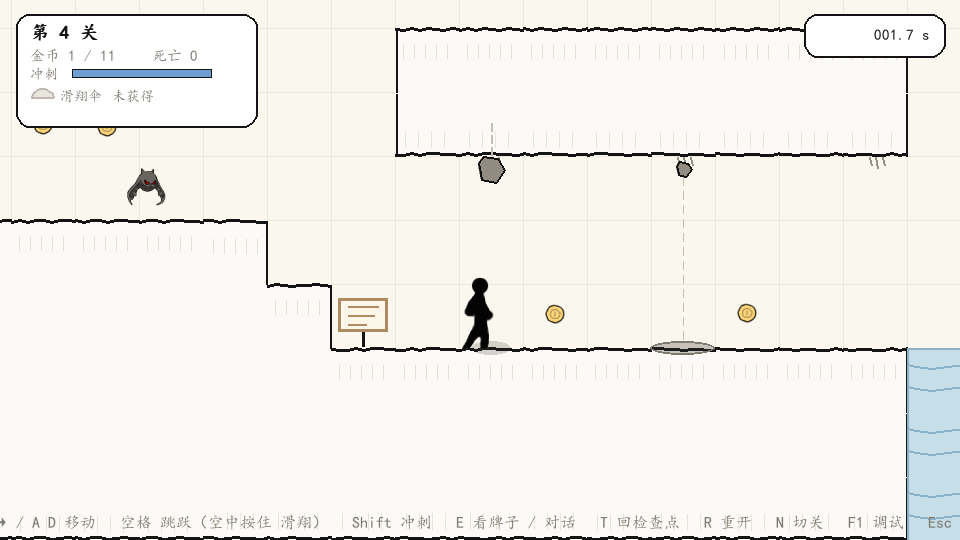
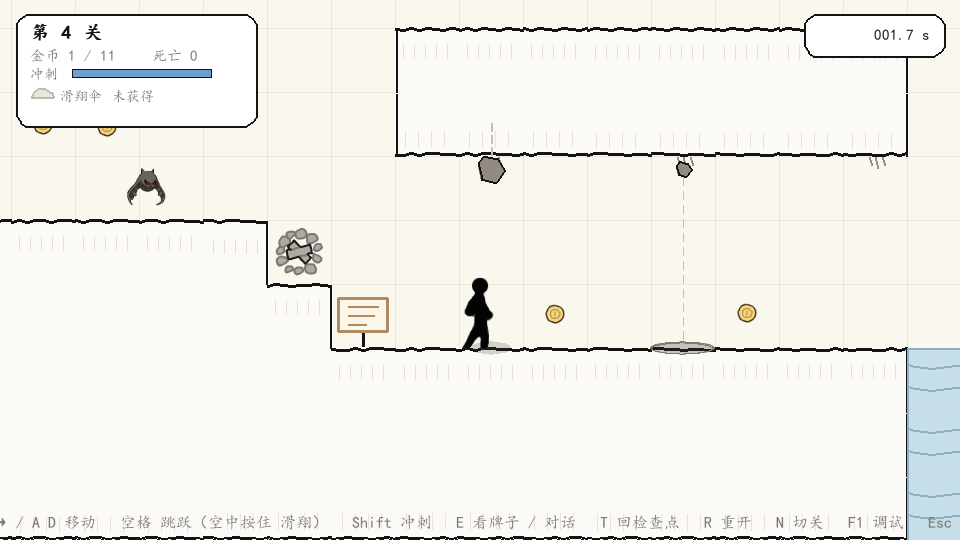
fix(M9.1): 第 3 关终点后的金币 + 第 4 关篝火挪到落石区入口 + 全关卡金币体检
试玩反馈三条，第 2 关复查后不改地图（金币都吃得到，只是不在必经路径上）。

1) 第 3 关少一枚金币（真 bug）：终点段第二枚画在旗子右边（第 52 列），
   踩进终点判定区就结算定格，那枚永远吃不到；挪到第 48 列。
   gen_l3 增加硬检查"金币不许落在终点旗右边（含同列）"。

2) 同类问题提升为全关卡体检 test_level_audit（6 关 × 4 项）：
   金币越过终点 / 埋在实心里 / 压在危险格上 / 篝火悬空或泡水。
   这种"画错地方"只看地图看不出来，必须拿世界坐标和判定区比。

3) 第 4 关篝火 46 列 → 34 列（下台阶第一格，落石区入口）：
   原来被石头砸死要回关卡起点重跑二十多秒，惩罚远大于难度本身。
   存档点准则是"难点入口"，不是"难点出口"，README 同步改口径。

4) 通关时终端多打一行 `漏拿 : 第 N 列、…`（按列排序）：
   只有 10/12 分不出"没跳够"还是"画在拿不到的地方"，列号一眼定位。

5) 新增 tools/probe_coins.py：金币可达性探针。把角色放到金币附近每个可站立面，
   试"朝金币跑 / 朝金币跳 / 原地满跳"，用真实 Player.update 跑 120 帧，
   按"能相交"判定可否拿取。第 2 关 12 枚逐枚验过，全部可达。

自检 415 → 439 项双环境全绿；体检 20 项全绿；6 关金币探针全部可达。

diff --git a/tools/probe_coins.py b/tools/probe_coins.py
@@ -1,0 +1,171 @@
+# -*- coding: utf-8 -*-
+"""金币可达性探针。
+
+为什么需要它：地图里的金币是不是"跳一跳就能吃到"，靠肉眼估高度很容易
+翻车——跳高是 127px，而一格是 64px，差半格就是"永远差一点"。玩家反馈
+"有金币拿不到"时，必须能用物理仿真给出确定的 yes/no，而不是再目测一遍。
+
+做法（只关心"能不能碰到"，不关心"怎么跑过去"）：
+  1. 枚举每枚金币附近所有可以站立的表面（地形顶面 + 移动平台的最高/最低位）；
+  2. 把角色放到该表面上，试若干种输入脚本（朝金币跑 / 朝金币跳 / 原地跳）；
+  3. 用真实的 Player.update 跑 120 帧，只要有一帧角色碰撞盒与金币相交，
+     这枚金币就判"可从该表面拿到"。
+
+结论分三档：
+  OK     至少一个表面能拿到（并打印是哪种动作）
+  BLOCK  金币本身埋在实心里（画都画在墙里，永远拿不到）
+  FAIL   附近任何表面都碰不到——这就是玩家反馈的那种金币
+
+用法：
+    python tools/probe_coins.py            # 全部关卡
+    python tools/probe_coins.py l2 l3      # 指定关卡
+    python tools/probe_coins.py l2 -v      # 打印每一次尝试
+"""
+
+import os
+import sys
+
+HERE = os.path.dirname(os.path.abspath(__file__))
+ROOT = os.path.dirname(HERE)
+if ROOT not in sys.path:
+    sys.path.insert(0, ROOT)
+
+os.environ.setdefault("SDL_VIDEODRIVER", "dummy")
+
+import pygame
+
+import compat
+import config
+import levels_catalog
+import player as player_mod
+import world as world_mod
+
+FRAMES = 120          # 单次尝试的时长（2 秒足够跳一次再落地）
+LOOK_X = 420          # 只考虑金币左右这么远以内的落脚面
+LOOK_Y = 420          # 只考虑金币下方这么深以内的落脚面
+
+
+def _surfaces(w):
+    """所有可站立的水平面：[(left, right, top, 标签)]。"""
+    out = []
+    for r in w.solids:
+        out.append((r.left, r.right, r.top, "地形"))
+    for p in w.platforms:
+        # 双向行程都要算：站在最低位和最高位都能起跳
+        lo, hi = p.rect.top, p.rect.top
+        if p.axis == "y":
+            lo, hi = p.rect.top - config.PLATFORM_TRAVEL, p.rect.top
+        for top in (lo, hi):
+            out.append((p.rect.left, p.rect.right, int(top), "平台"))
+    return out
+
+
+def _try(w, coin, sx, sy, axis, jump_at, verbose, tag):
+    """从 (sx, sy) 出发按脚本跑，碰到金币就返回 True。"""
+    p = player_mod.Player(sx, sy)
+    inp = player_mod.InputState()
+    box = coin["rect"]
+    for f in range(FRAMES):
+        inp.axis = axis
+        if f == jump_at:
+            inp.jump_pressed = True
+        inp.jump_held = (jump_at >= 0 and f >= jump_at)
+        if p.rect.colliderect(box):
+            if verbose:
+                print(u"      ✓ %s 第 %d 帧相交 (%.0f,%.0f) 轴=%+.0f 跳@%d"
+                      % (tag, f, p.x, p.y, axis, jump_at))
+            return True
+        p.update(config.FIXED_DT, inp, w.collision_solids(),
+                 oneways=w.oneways, bouncers=w.bouncers)
+    if verbose:
+        print(u"      ✗ %s 轴=%+.0f 跳@%d  末(%.0f,%.0f)"
+              % (tag, axis, jump_at, p.x, p.y))
+    return False
+
+
+def probe(path, verbose=False):
+    w = world_mod.World.load(path)
+    print(u"== %s  金币 %d 枚" % (os.path.basename(path), len(w.coins)))
+    surfaces = _surfaces(w)
+    fails = []
+    for i, coin in enumerate(w.coins):
+        box = coin["rect"]
+        cx, cy = box.centerx, box.centery
+        tag = u"#%02d (%d,%d) 格(%d,%d)" % (i, cx, cy, cx // config.TILE,
+                                            cy // config.TILE)
+        # 埋进实心
+        buried = None
+        for r in w.solids:
+            if r.colliderect(box):
+                buried = r
+                break
+        if buried is not None:
+            print(u"  %s  BLOCK 埋在实心里 %s" % (tag, buried))
+            fails.append((i, "BLOCK"))
+            continue
+
+        cands = []
+        for (l, r, top, kind) in surfaces:
+            if top < cy - 40 or top > cy + LOOK_Y:
+                continue
+            if r < cx - LOOK_X or l > cx + LOOK_X:
+                continue
+            cands.append((l, r, top, kind))
+        # 远的先试近的：按 |top 差| 排序，先试最自然的那块地
+        cands.sort(key=lambda c: abs(c[2] - (cy + 70)))
+
+        got = None
+        for (l, r, top, kind) in cands:
+            # 三个起始横坐标：正下方、左侧助跑位、右侧助跑位
+            for sx in (min(max(cx - 13, l + 8), r - 34),
+                       min(max(cx - 150, l + 8), r - 34),
+                       min(max(cx + 120, l + 8), r - 34)):
+                sy = top - player_mod.Player.HEIGHT
+                for axis in ((1.0 if cx >= sx else -1.0), 0.0):
+                    for jump_at in (1, 8, 14, 20):
+                        if _try(w, coin, sx, sy, axis, jump_at, verbose,
+                                u"%s@(%.0f,%.0f)" % (kind, sx, top)):
+                            got = (kind, sx, top, axis, jump_at)
+                            break
+                    if got:
+                        break
+                if got:
+                    break
+            if got:
+                break
+        if got:
+            print(u"  %s  OK    %s 站 (%.0f,%d) 轴%+.0f 跳@%d"
+                  % (tag, got[0], got[1], got[2], got[3], got[4]))
+        else:
+            print(u"  %s  FAIL  %d 个落脚面都碰不到" % (tag, len(cands)))
+            fails.append((i, "FAIL"))
+    return fails
+
+
+def main(argv):
+    pygame.display.init()
+    compat.make_display((64, 64))
+    verbose = "-v" in argv
+    keys = [a for a in argv[1:] if not a.startswith("-")]
+    if not keys:
+        keys = [lv["key"] for lv in [levels_catalog.at(i) for i in range(levels_catalog.count())]]
+    bad = {}
+    for k in keys:
+        p = levels_catalog.path_of(k)
+        if not p or not os.path.exists(p):
+            print(u"!! 缺少关卡 %s" % k)
+            continue
+        f = probe(p, verbose)
+        if f:
+            bad[k] = f
+    print(u"\n== 汇总")
+    if not bad:
+        print(u"  全部金币可达")
+        return 0
+    for k, f in bad.items():
+        print(u"  %s：%s" % (k, u"、".join(u"#%02d %s" % (i, why) for i, why in f)))
+    return 1
+
+
+if __name__ == "__main__":
+    sys.exit(main(sys.argv))

diff --git a/selftest.py b/selftest.py
@@ -983,6 +983,50 @@ def test_land_feel():
     _check(u"下沉自动回弹", p.land_sink < 0.01, u"%.3f px" % p.land_sink)
 
 
+# ---------------------------------------------------------------- 关卡数据体检
+
+def test_level_audit():
+    """全关卡"能不能吃到 / 站得住"的体检。
+
+    这类问题**是数据错，不是操作差**，而肉眼看地图看不出来：
+      - 金币画在终点旗右边：一脚踩进终点判定区就结算定格，永远吃不到
+        （试玩两次都报"这关有金币拿不到"，就是这一条）；
+      - 金币埋在实心里：画都画在墙里；
+      - 篝火底下是空的或者泡在水里：重生直接在死亡格上。
+    全都用世界坐标和判定区比一遍，比再看十遍地图靠谱。
+    """
+    _section(u"全关卡结算体检（金币 / 篝火）")
+    for i in range(levels_catalog.count()):
+        lv = levels_catalog.at(i)
+        path = levels_catalog.path_of(lv["key"])
+        w = world.World.load(path)
+        name = lv["name"]
+
+        past = [c for c in w.coins if c["rect"].right > w.goal_zone.left]
+        _check(u"%s 没有金币落在终点之后" % name, not past,
+               u"%d/%d 枚越过终点（x>%d）"
+               % (len(past), len(w.coins), w.goal_zone.left))
+
+        buried = [c for c in w.coins
+                  if any(r.colliderect(c["rect"]) for r in w.solids)]
+        _check(u"%s 没有金币埋在实心里" % name, not buried,
+               u"%d 枚" % len(buried))
+
+        in_hazard = [c for c in w.coins if w.hazard_at(c["rect"]) is not None]
+        _check(u"%s 没有金币压在危险格上" % name, not in_hazard,
+               u"%d 枚" % len(in_hazard))
+
+        bad = []
+        for cp in w.checkpoints:
+            r = cp["rect"]
+            if not w.is_solid_px(r.centerx, r.bottom + 2):
+                bad.append(u"悬空")
+            elif w.hazard_at(r) is not None:
+                bad.append(u"泡在危险格里")
+        _check(u"%s 篝火重生点都站在实地上" % name, not bad,
+               u"、".join(bad) or u"%d 个全好" % len(w.checkpoints))
+
+
 # ---------------------------------------------------------------- M3 地图与相机
 
 def _temp_level(name, text):
@@ -3078,6 +3122,7 @@ def _run_all(app):
     test_m9_goal(app)
     test_level_parse()
     test_level_errors()
+    test_level_audit()
     test_camera()
     test_level_playable()
 

diff --git a/tools/gen_l3.py b/tools/gen_l3.py
@@ -85,8 +85,12 @@ def build():
     # ---- 金币 ----
     # 前四枚在台阶上，自然引导玩家往上走；19,4 是跳起来才够得到的
     # （站着的头顶在 314，金帀中心 288，不跳吃不到）
+    #
+    # 最后一枚**不能放在终点旗右边**：一脚踩进终点判定区，关卡就结算定格了，
+    # 旗子后面的金币永远拿不到（试玩实测：跑到终点只拿到 8/9）。
+    # 所以终点段的两枚都压在旗子左边，靠小水坑当节奏点。
     for c, r in [(8, 9), (10, 9), (13, 8), (15, 7), (19, 4),
-                 (32, 9), (36, 9), (47, 9), (52, 9)]:
+                 (32, 9), (36, 9), (47, 9), (48, 9)]:
         put(rows, c, r, "c")
 
     return rows
@@ -134,6 +138,18 @@ def check(rows):
         for c in range(W):
             if rows[r][c] == "c" and rows[r][c] == "#":
                 problems.append(u"(%d,%d) 的金币在实心里" % (c, r))
+
+    # 5) 金币不能落在终点旗的右边（含同一列）
+    #    终点判定区一到就结算定格，旗子后面的金币是永远拿不到的：
+    #    玩家会以为自己操作不够，其实是关卡画错了。
+    flag_cols = [c for r in range(H) for c in range(W) if rows[r][c] == "F"]
+    if flag_cols:
+        goal_x = min(flag_cols) * config.TILE
+        for r in range(H):
+            for c in range(W):
+                if rows[r][c] == "c" and c * config.TILE >= goal_x:
+                    problems.append(u"(%d,%d) 的金币在终点（第 %d 列）右边或同一列"
+                                    % (c, r, min(flag_cols)))
 
     return problems
 

diff --git a/scenes.py b/scenes.py
@@ -1160,6 +1160,15 @@ class GameScene(Scene):
             print(u" 到达终点：%.1fs，金币 %d/%d，死亡 %d 次" % (
                 self.level_time, self.world.taken_coins,
                 self.world.total_coins, self.deaths))
+            # 漏拿的金币是哪几枚，必须打出来。试玩反馈"这关有金币拿不到"
+            # 时，光看总数 10/12 没法判断是"没跳够"还是"画在拿不到的地方"——
+            # 把列号列出来，一眼就能定位（列号从 1 开始，和死因那份一致）。
+            missed = [c for c in self.world.coins if not c["taken"]]
+            if missed:
+                missed.sort(key=lambda c: c["rect"].centerx)
+                print(u" 漏拿     : %s（共 %d 枚）" % (
+                    u"、".join(u"第 %d 列" % (c["rect"].centerx // config.TILE + 1)
+                              for c in missed), len(missed)))
             self._print_death_summary()
             self._record_result()
 

diff --git a/tools/gen_l2.py b/tools/gen_l2.py
@@ -76,6 +76,13 @@ def build():
     put(rows, 45, 9, "m")
 
     # ---- 金币 ----
+    # 高度分三档：
+    #   row 9（贴地）、row 8（离地 96px）：跑着跳就吃得到，顺路；
+    #   row 7（离地 160px）：要"人正好在金币正下方、原地满跳"才碰得到，
+    #                        属于**支线**奖励（实测可吃，但别指望跑动中顺带捞）；
+    #   row 6（高台顶上）：靠弹跳板 / 升降台上高台才吃得到。
+    # 也就是说这关的金币不全是必经路径上的——12 枚里有一半要特意去拿，
+    # 这是有意的收集目标，不是"画在拿不到的地方"。
     for c, r in [(3, 8), (5, 8), (10, 8), (12, 7), (22, 7),
                  (26, 6), (28, 6), (38, 9), (40, 9),
                  (47, 6), (48, 6), (49, 6)]:

diff --git a/tools/gen_l4.py b/tools/gen_l4.py
@@ -89,7 +89,11 @@ def build():
 
     # ---- 出生点 / 终点 / 篝火 ----
     put(rows, 2, GROUND - 1, "P")
-    put(rows, 46, GROUND - 1, "C")
+    # 篝火放在**落石区之前**（第 34 列，下台阶的第一格），不是原来的第 46 列：
+    # 落石是这关唯一"看一眼就得停"的机关，被砸死却要回到关卡起点重跑，
+    # 惩罚太重、也太远——玩家会以为这关的难点是"跑得不够快"。
+    # 放在开裂天花板入口前，试错的代价才是"再来一次这段"。
+    put(rows, 34, 9, "C")
     put(rows, 56, GROUND - 1, "F")
 
     # ---- 告示牌与 NPC ----

diff --git a/README.md b/README.md
@@ -443,6 +443,8 @@
 ├── docs/              示意图与开发记录
 ├── docs/环境适配说明.md  环境坑与预防方案（改动前必读）
 ├── tools/envcheck.py  环境体检脚本（每个里程碑前跑一次）
+├── tools/gen_l*.py    各关生成器（改关卡改这里，别手改 txt）
+├── tools/probe_coins.py 金币可达性探针（真实物理仿真，判断"这枚吃不吃得到"）
 ├── README.md          项目主文档（放在根目录）
 └── 素材清单.md        素材路径与用途（放在根目录）
 ```
@@ -598,7 +600,7 @@ IDLE ──按方向──→ RUN ──离地──→ JUMP ──vy>0──→
 |---|---|---|---|
 | 1 | 角色动作流畅、风格统一 | 8 帧跑动 12FPS、状态机切换；全套 Kenney 涂鸦 + 黑剪影 | 跑动无跳帧、无滑步；画面上不出现第二种画风 |
 | 2 | 引导到位 | 教学关气泡；显性机关关告示牌 + NPC 多页对话 | 不看文档也能完成教学关；显性机关关每个新机关前都能读到说明 |
-| 3 | 合理使用存档点 | 每关按长度配置适量篝火，按 `E` 点亮，位置在难点之后 | 重玩一次不用重复走 30 秒以上 |
+| 3 | 合理使用存档点 | 每关按长度配置适量篝火，按 `E` 点亮，放在**难点入口**（不是出口） | 死了只重来这一段，不用从关卡起点重跑 30 秒 |
 | 4 | 特殊道具 | 滑翔伞（滑翔）、冲刺（突进）、弹跳板 | 拿到伞后有"原本到不了"的新路线 |
 | 5 | UI 与功能 | 重开本关 / 返回存档点 / 连续挑战 / 死亡回点 / 死亡计数 | 五个功能都能在暂停菜单里一步点到 |
 | 6 | 非显性机关 IWANNA | 伪装砖、落刺、隐形地刺、突墙、二段落石 | 每处都能"看线索预判"，也能"背板"稳定过 |
@@ -1124,7 +1126,14 @@ fallback），只能靠肉眼看出来 "金币怎么是个空心圈"。
 跳跃 121px 刚好够）→ 4 格高的起跳台 → **8 格宽水坑（512px）**：普通跳跃射程约
 263px，必死；滑翔从 384 落到 640 有 2.1 秒，按 330px/s 能飞 700px，够过 →
 对岸篝火 → 2 格小坑（正常跳就能过，和小坑形成对照）→ 终点。
-关卡由 `tools/gen_l3.py` 生成，自带三条硬约束检查（坑宽/台阶高差/道具不埋在实心里）。
+关卡由 `tools/gen_l3.py` 生成，自带四条硬约束检查（坑宽/台阶高差/道具不埋在实心里/
+**金币不许落在终点旗右边**）。
+
+> 最后一条是试玩踩出来的：终点段原来有一枚金币放在旗子**后面**，而一脚踩进终点
+> 判定区就结算定格——那枚金币永远拿不到，玩家会以为是"自己跳得不够高"。
+> 现在终点段两枚金币都压在旗子左边。同类检查已经提升为全关卡体检（见 §自检
+> `test_level_audit`），6 关一起查"金币越过终点 / 埋在实心里 / 压在危险格上 /
+> 篝火悬空或泡水"。
 
 ### M6：蝙蝠、UFO、落石、告示牌与 NPC —— 已完成
 
@@ -1150,9 +1159,14 @@ fallback），只能靠肉眼看出来 "金币怎么是个空心圈"。
 
 **第 4 关（`levels/l4.txt`，60x14 格）**：起步牌子（教 `E`）→ 2 格水坑 →
 老人 NPC（讲蝙蝠与落石的看法）→ 两级台阶上高台 → 头顶蝙蝠走廊 →
-高台上的 2 格坑 → 贴地蝙蝠（必须跳过去）→ 开裂天花板下 3 处落石 →
-2 格坑 → 篝火 → 悬停 UFO → 终点。由 `tools/gen_l4.py` 生成，七条硬检查
+高台上的 2 格坑 → 贴地蝙蝠（必须跳过去）→ **篝火（落石区入口）** →
+开裂天花板下 3 处落石 → 2 格坑 → 悬停 UFO → 终点。由 `tools/gen_l4.py` 生成，七条硬检查
 （坑宽 / 台阶高差 / 蝙蝠不撞墙 / 牌子站位 / 落石点上下结构 / 出生终点落地 / 文本配对）。
+
+> 篝火原来放在落石区**之后**（第 46 列）。试玩反馈很直接：被石头砸死要回到关卡
+> 起点重跑二十多秒，惩罚远大于这一段的难度，玩家的结论会是"这关靠跑得快"。
+> 改到落石区**入口**（第 34 列，下台阶的第一格）之后，死亡只重来这一段。
+> 存档点的位置准则是"难点入口"，不是"难点出口"——见 §「需求对照」第 3 条。
 
 验收（均已进自检）：
 - 敌人移动范围可预测且不会跑出关卡边界 —— 600 帧内 `x` 严格落在巡逻区间，且两端都到过。
@@ -1556,3 +1570,4 @@ Thumbs.db
 | 2026-11-25 | **M8 完成（隐形机关与伪装砖）**：`enemy.py` 新增四个机关——`CrumbleBrick`（踩上 0.30s 塌、3s 自己长回、画成四面描边的薄板且下面是坑）、`DropSpike`（收在天花板里只露 1px 黑线，走近抖 0.45s 后扎下来，只判刺头 28×40）、`RisingWall`（140px 高，比跳高 127px 高出一截所以跳不过去；升 0.12/停 0.75/缩 0.22；站稳在槽上或升起时被挤到就整程放弃，绝不夹人）、`TwinRock`（两块落石同一帧预订，预警 0.90/1.45 秒，远的那块影子先收拢）；`world` 新增 `!` `T` 两种格子与 `collision_solids()` 并入"没塌的砖 + 升起的墙"、`reset_traps()`（在 `_respawn` 与 `go_to_checkpoint` 里调用，否则砖塌了重生后卡死在坑边）、`mechanism_hit()` 接落刺、`_spawn_rock()` 支持 `twin` 与自定义预警时长；新增第 6 关 `levels/l6.txt`（72×14，3 篝火）与 `tools/gen_l6.py`（矩形/图例/出生终点/砖段与下方致死物/落刺安装点与通过性/突墙净空与跳高/二连石天花板与安全位/篝火重生点/金币可达性），`main.py --smoke-m8` 四张图（`docs/m8_brick|spike|wall|twin.png`）。自检 286 → 340 项双环境全绿；只做"往右跑 + 遇墙就停"的自动驾驶 14.4 秒 0 死亡通关，金币 17/18 |
 | 2026-11-25 | **M8.1 试玩修正（玩家实测两条）**。① **刺廊死区**：落刺原来"走远了才重新上膛"（`d > 触发距离 + 一格` = 166px），而两座刺相隔 3 格只有 192px——玩家跑到第 2 座的触发圈边缘时离第 1 座才 58px，永远等不到"够远"，回头走过第 1 座时那把刺成了摆设。改成**边沿触发**（只有"从圈外走进来"那一下放刺，`inside` 每帧更新，`cooldown` 兜住收回后立刻再放），来回穿行每次都重新放刺，站着不动也不会被连砸。② **突墙加刺**：原来撞上去只是被挡住，没有代价，这段路退化成"顶着右键等它落下"。现在朝玩家那一面长了一排 10px 锯齿，撞上就是死（`RisingWall.hitbox()` 是贴墙 10px 的竖带）；刹车距离 16px、触发距离 128px，看见墙起来再停完全来得及。配套：生成器新增"墙左边三格必须是能刹住的实地（不许坑/危险格/伪装砖）"与"触发圈里不许放金币（那是催人撞刺）"两条硬检查，第 35 列那枚金币因此挪到第 33 列；告示牌文案改成"撞上去就是死，看见它起来就收脚"。③ 顺手加了**事件日志**：每次死亡在终端打一行"死在第几列、被什么弄死的"，通关时再按（列, 死因）汇总一行——`config.LOG_EVENTS`，自检里关掉。自检 340 → 347 项双环境全绿 |
 | 2026-11-26 | **M9 完成（界面 / 存档 / 连续挑战）**：新增 `levels_catalog.py`（关卡顺序与元信息的唯一权威表——不再 `os.listdir` 扫目录，"下一关"不会因为将来出现 `l10` 而指到第 2 关）与 `save.py`（`save.json`：每关的最快/最多金币/最少死亡、解锁进度、原子写入、坏档降级）。① **主菜单**随存档变化：新玩家是"开始游戏"，打了一半是"继续游戏 · 滑翔伞"，全通是"再玩一次"，并在标题下显示"已通关 N / 6"。② **关卡选择**：3×2 卡片，每张带序号、关名、一句话说明、成绩行（满金币前面加 ★）与锁/对勾；方向键按网格走，锁着的卡按 Enter 只提示"先通关「上一关」"；`F2` 一键全解锁（写进存档），`Delete` 两次清档。③ **暂停**：Esc 不再直接退菜单（那样检查点、金币、机关状态全丢），改成场景内的遮罩面板：继续 / 重开 / 选关 / 回菜单。暂停时 `world.update` 都不跑——否则荡锤还在摆，玩家会死在暂停菜单里。④ **结算面板**：显示新纪录（最快 / 金币 / 最少死亡分开记）、首次通关标记，`Enter` 直达下一关（连续挑战），最后一关回选关。⑤ **存档只读模式**：`--smoke*` 与 `--selftest` 一律不写盘，否则截图脚本传送到终点的那 0.3 秒假成绩会写成"已通关 1/6"。⑥ 篝火点亮补了 toast（之前只有终端日志，画面上除了变色没有任何反馈）。自检 347 → 415 项双环境全绿；体检 19 → 20 项（新增"关卡目录与磁盘文件一一对应"）；`--smoke-m9` 出四张界面图（`docs/m9_menu|select|pause|goal.png`）|
+| 2026-11-26 | **M9.1 试玩修正（金币拿不到 · 篝火位置）**。① **第 3 关少一枚金币**：终点段第二枚金币画在旗子**右边**（第 52 列），而踩进终点判定区就结算定格——那枚永远吃不到，玩家只会怀疑自己跳得不够。挪到第 48 列（旗子左边）。这条不只改地图：`tools/gen_l3.py` 加了一条硬检查"金币不许落在终点旗右边（含同列）"，并把同类检查提升为**全关卡体检** `test_level_audit`——6 关一起查"金币越过终点 / 埋在实心里 / 压在危险格上 / 篝火悬空或泡在水里"，一次把这类"画错地方"的问题锁死（自检 415 → 439 项）。② **第 2 关金币复查**：12 枚逐枚用真实物理仿真过一遍（新增 `tools/probe_coins.py`：把角色放到金币附近的每个落脚面上，试"朝金币跑 / 朝金币跳 / 原地满跳"三种脚本），结论是**全都吃得到**，只是有 5 枚（第 12/22 列的两枚 + 起步三枚）不在必经路径上、要特意跳——属于收集目标而非 bug，因此地图不动，只在生成器里把"哪一档高度对应哪种难度"写清楚。③ **第 4 关篝火挪到落石区入口**（第 46 列 → 第 34 列）：原来被石头砸死要回关卡起点重跑二十多秒，惩罚远大于这一段本身的难度；现在死在落石区只重来这几格。存档点的准则是"难点入口"而不是"难点出口"。④ 通关时终端多打一行 **`漏拿 : 第 N 列、…`**——试玩反馈"有金币拿不到"时，光看 `10/12` 分不出是"没跳够"还是"画在拿不到的地方"，列出列号一眼定位 |
